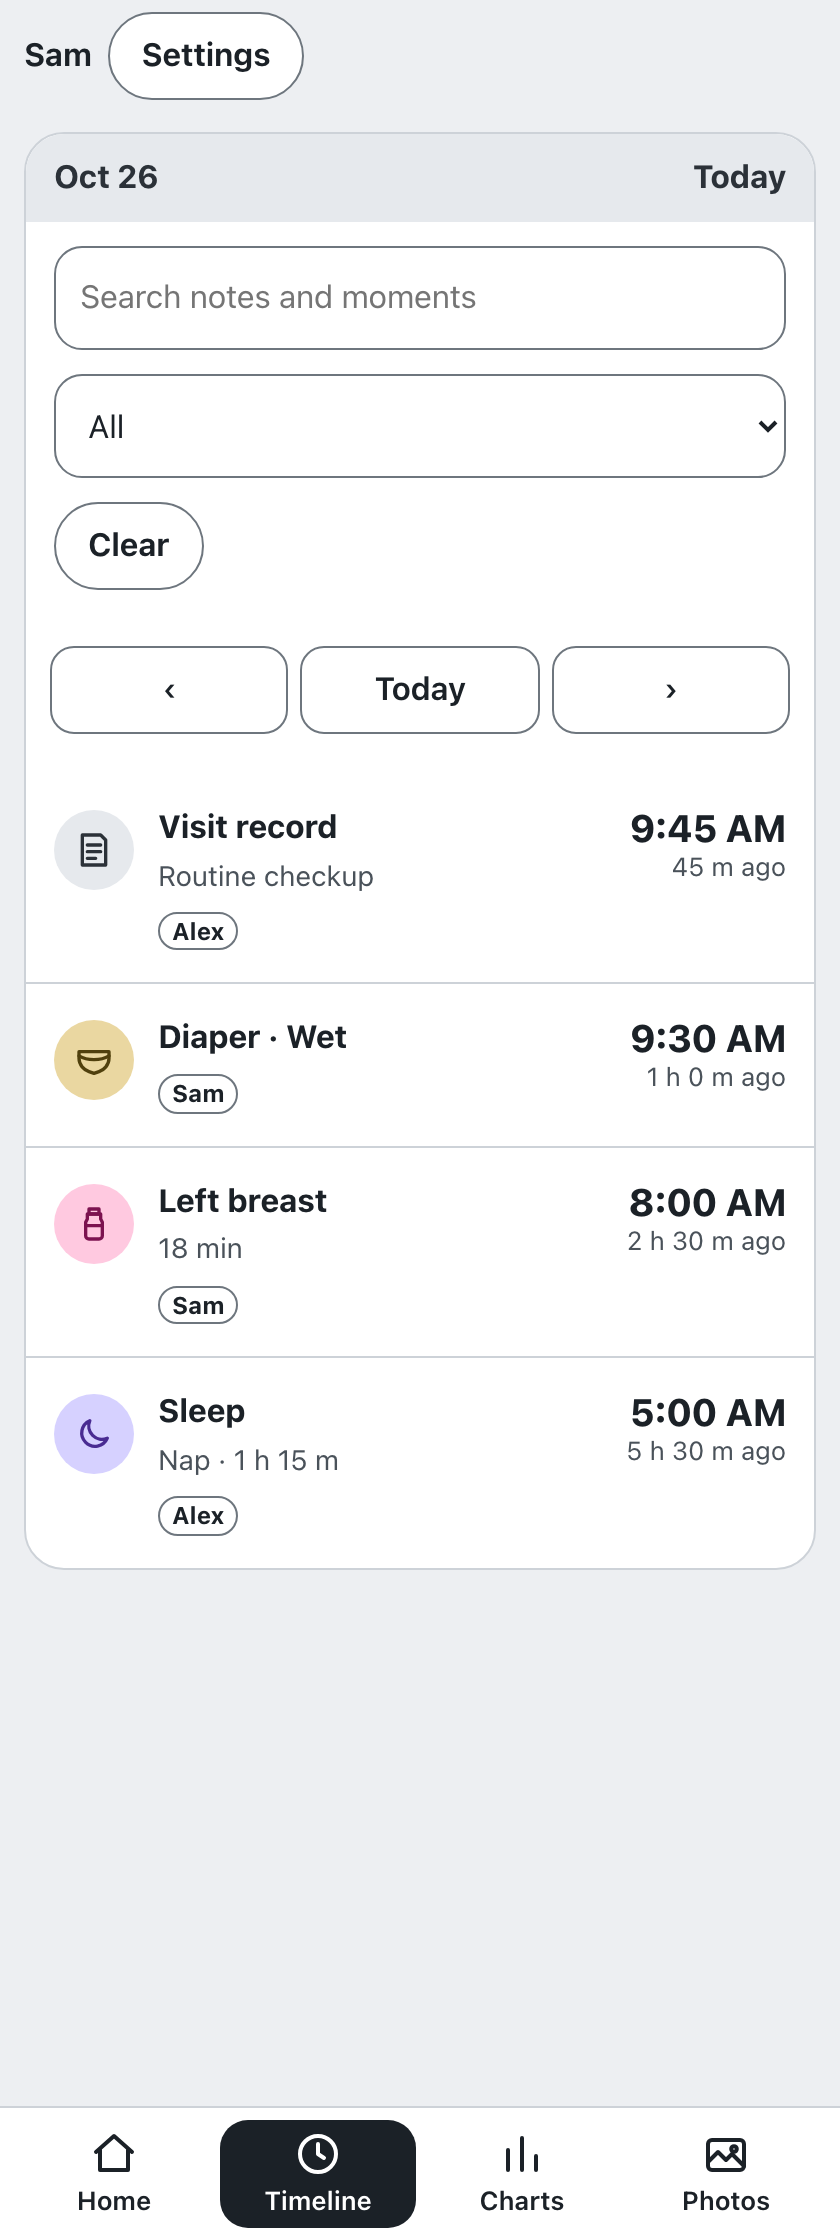
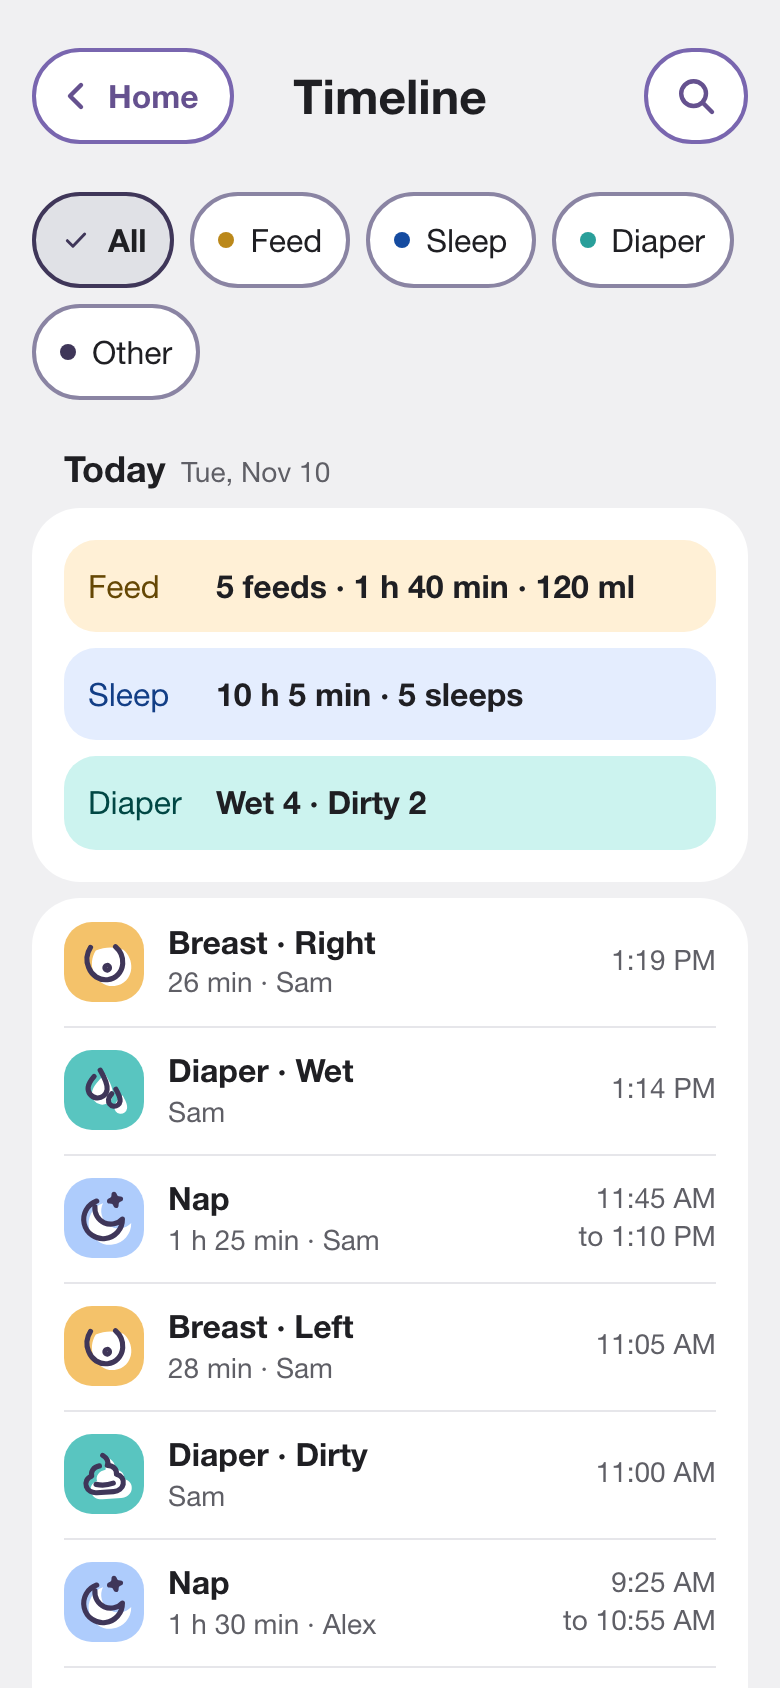
Show the current look: new Home, Timeline, Charts and night screens with made-up records, and a README that matches the app today

diff --git a/README.md b/README.md
@@ -1,17 +1,30 @@
 # Little Days
 
-A baby tracker I’m designing for my family.
+A baby tracker I built for my family. It is made for a tired parent with one free hand.
 
-**Status: in development.** The setup conflict is resolved. Physical-phone checks and a full Mac mini restart remain.
+**Status: my family uses it every day. An open source edition is in progress.**
 
-<img src="images/home.png" alt="Little Days home screen with invented feeding, sleep, and diaper records" width="420">
+<p>
+<img src="images/home.png" width="200" alt="Home screen with Feed, Sleep and Diaper cards and the latest records">
+<img src="images/timeline.png" width="200" alt="Timeline of one day with totals for feeds, sleep and diapers">
+<img src="images/charts.png" width="200" alt="Charts with seven-day averages and a daily rhythm of sleep and feeds">
+<img src="images/home-night.png" width="200" alt="Home screen in the night look">
+</p>
 
-Adults choose their name from a list. The app supports feeds, sleep, diapers, notes, timeline edits, handoff notes, care confirmations, pediatrician appointments, and structured visit records.
+The screenshots show a made-up baby and made-up records.
 
-Seven-day charts show recorded care patterns. English and Spanish developmental cards use CDC, AAP, and AASM sources. They provide general information, not a developmental screening.
+## What it does
 
-<img src="images/timeline.png" alt="Timeline with four invented care records and the adults who logged them" width="420">
+- **Log from the Home screen.** Feed, Sleep and Diaper each have one large card. A feed, a sleep or a pump session can run on a timer.
+- **See the day.** The Timeline shows each record, the adult who logged it, and the totals for the day.
+- **See the week.** The Charts show seven-day averages and a daily rhythm of sleep and feeds.
+- **Use it at night.** The night look keeps the screen dark and the text easy to read.
+- **Keep more than the basics.** Notes, medicine, growth measurements, photos, appointments and doctor visit records.
+- **Read it in English or Spanish.**
+- **Keep the records at home.** The app runs on a computer in the house. [Baby Buddy](https://github.com/babybuddy/babybuddy) stores the records.
 
-The app does not send reminders and does not monitor crying.
+The app does not give medical advice.
 
-Screenshots use invented sample data. The app and family data are private.
+## Open source
+
+The code is not in this repository yet. I am preparing a copy with no family data that you can install on your own computer with Docker. It will go here when it is ready.
